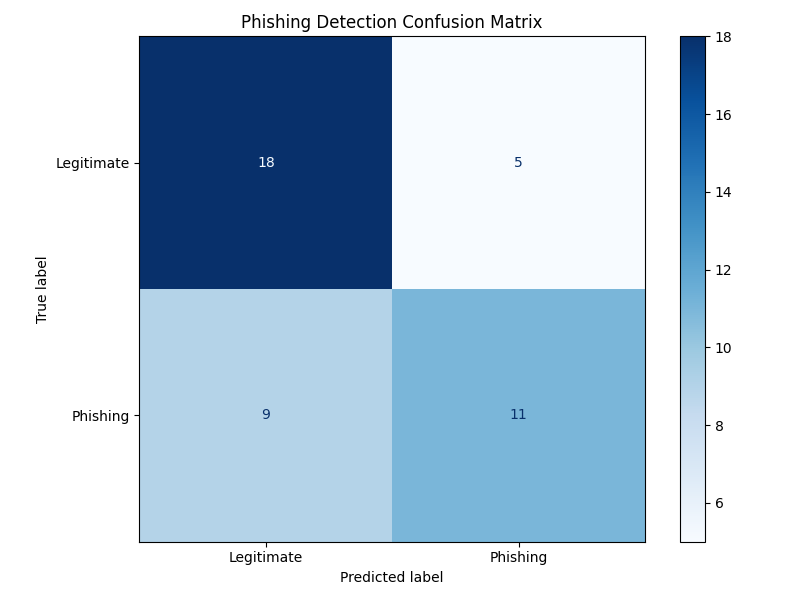
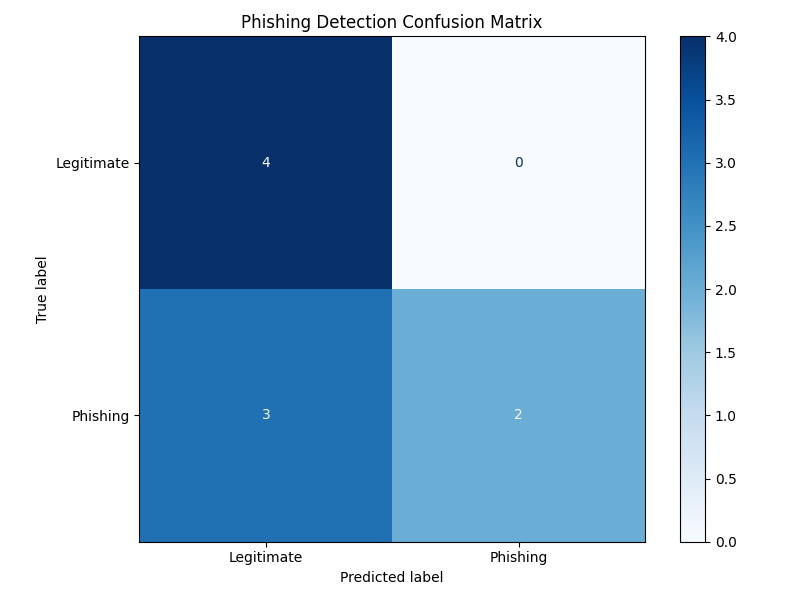
fuck

diff --git a/phishing-detector/phising-ml/test_inference.py b/phishing-detector/phising-ml/test_inference.py
@@ -74,82 +74,24 @@ def main():
     model = load_model()
     feature_columns = get_feature_columns(model)
     
-    # CATEGORY 1: EXTREMELY DECEPTIVE PHISHING URLS
-    # These are sophisticated phishing attempts using various advanced techniques
-    sophisticated_phishing_urls = [
-        # Typosquatting (character replacement/homograph)
-        "https://www.аррӏе.com/icloud/login",  # Cyrillic 'а' and 'р' characters look like Latin 'a' and 'p'
-        "https://www.faceboоk.com/login.php",  # Latin 'о' vs Cyrillic 'о'
-        "https://www.microsоft.com/en-us/security",  # Another homograph attack with Cyrillic 'о'
-        "https://www.amаzon.com/verify/account",  # Cyrillic 'а' instead of Latin 'a'
-        
-        # Subdomain manipulation
-        "https://login.microsoft.com.security-check-required.com/auth",  # Full domain as subdomain
-        "https://accounts-google.com.verification.biz/signin",  # Domain + subdomain tricks
-        "https://bankofamerica.com.secure-banking.us/login",  # Using target domain as subdomain
-        "https://www.paypal.com.account-security.app/",  # Modern TLD (.app) with legit domain as subdomain
-        
-        # Domain variations with security terms
-        "https://secure-wells-fargo-bank.com/auth",  # Security words + brand
-        "https://login-chase-secure-bank.com/verify",  # Multiple security terms
-        "https://verified-appleid.cloud/manage",  # Security word with cloud TLD
-        "https://authverify-amazon.co/review",  # Action verbs combined
-        
-        # Path manipulation (legitimate domain in path)
-        "https://security-alert.com/microsoft.com/account/verify",  # Legitimate domain in path
-        "https://verification-center.net/chase.com/statement",  # Banking domain in path
-        "https://account-update.org/paypal.com/login",  # Payment provider in path
-        "https://confirm-activity.site/instagram/unusual-login",  # Social media + action
-        
-        # Modern hosting platforms (harder to detect)
-        "https://netflix-account-update.netlify.app/",  # Netlify (static hosting)
-        "https://amazon-delivery-tracking.vercel.app/",  # Vercel (modern hosting)
-        "https://apple-id-validate.web.app/",  # Firebase hosting
-        "https://docusign-document-p346.onrender.com/",  # Render (cloud platform)
+    # URLs for testing
+    legit_urls = [
+        "https://www.aiismath.com/",
+        "https://www.youtube.com/playlist?list=PLmWq-5VQxdn533RW5XgpCvLadG-qzMMvI",
+        "https://www.visidata.org/credits/",
+        "https://phishtank.org/"
+    ]
+
+    phishing_urls = [
+        "https://sudden-hazel-alligator.glitch.me/",
+        "https://quirky-nebula-almandine.glitch.me/",
+        "https://www.filmreviewers.com/",
+        "https://youremotejobs.com/",
+        "http://amazon-first-project.vercel.app/"
     ]
     
-    # CATEGORY 2: LEGITIMATE URLS WITH SUSPICIOUS CHARACTERISTICS
-    # These are real legitimate URLs that might trigger false positives
-    deceptive_legitimate_urls = [
-"https://www.mako.co.il/food-restaurants/restaurant-news/Article-d706a6c26f25391027.html",  # Legitimate but long URL
-"https://aws.amazon.com/data-exchange/?adx-cards2.sort-by=item.additionalFields.eventDate&adx-cards2.sort-order=desc",
-"https://github.com/LeandThaqi/NoPhish/blob/main/train_random_forest_less.py",
-
-        # Legitimate sites with complex/suspicious looking URLs
-        "https://login.live.com/login.srf?wa=wsignin1.0&rpsnv=13&ct=1618675326",  # Microsoft complex login URL
-        "https://accounts.google.com/v3/signin/identifier?continue=https%3A%2F%2Fmail.google.com",  # Google complex login
-        "https://www.amazon.com/ap/signin?openid.pape.max_auth_age=0&openid.identity=http%3A%2F%2Fspecs.openid.net",  # Amazon OAuth
-        "https://auth0.openai.com/u/login/identifier?state=hKFo2SBMVkR5b19yREIweHB",  # Auth0 login URL
-        
-        # Legitimate but with security/verification terms
-        "https://secure.checkout.visa.com/checkout-widget/assets/img/src",  # 'secure' in legitimate domain
-        "https://verify.twilio.com/v2/phone-numbers/verification/start",  # 'verify' in legitimate domain
-        "https://id-verification.amazonaws.com/session",  # 'verification' in AWS subdomain
-        "https://authentication.td.com/uap-ui/?consumer=easyweb",  # 'authentication' in bank domain
-        
-        # Legitimate but with uncommon TLDs or structures
-        "https://auth.tesla.cn/oauth2/v3/authorize",  # Less common TLD (.cn)
-        "https://signin.aws.amazon.com/oauth",  # Multiple subdomains for service
-        "https://security-center.nasdaq.com/account/login",  # 'security' term in legitimate subdomain
-        "https://www.instagram-engineering.com/blog",  # Legitimate brand + hyphen (official engineering blog)
-        
-        # Legitimate sandbox/development environments
-        "https://test-sandbox.adyen.com/ca/ca.shtml",  # Payment processor test environment
-        "https://developer-admin.sandbox.checkout.com/login",  # Dev sandbox with 'admin'
-        "https://test.authorize.net/sandbox/account",  # Testing environment
-        "https://sandbox.payfast.dev/engine/process",  # Payment sandbox environment
-        
-        # Legitimate but with URL structure similar to phishing
-        "https://demo.stripe.com/account/login?redirect=%2Fdashboard",  # Demo site with redirect parameter
-        "https://classroom.github.com/auth/github?auth_type=student",  # GitHub classroom auth
-        "https://www.office.com/login?es=Click&ru=%2Fsetup",  # Microsoft Office login with parameters
-        "https://login.mailchimp.com/oauth2/v1/authorize?response_type=code"  # OAuth flow
-    ]
-    
-
     # Combine into test sets
-    phishing_urls = sophisticated_phishing_urls 
-    legitimate_urls = deceptive_legitimate_urls
+    legitimate_urls = legit_urls
     
     results = []
     true_labels = []
